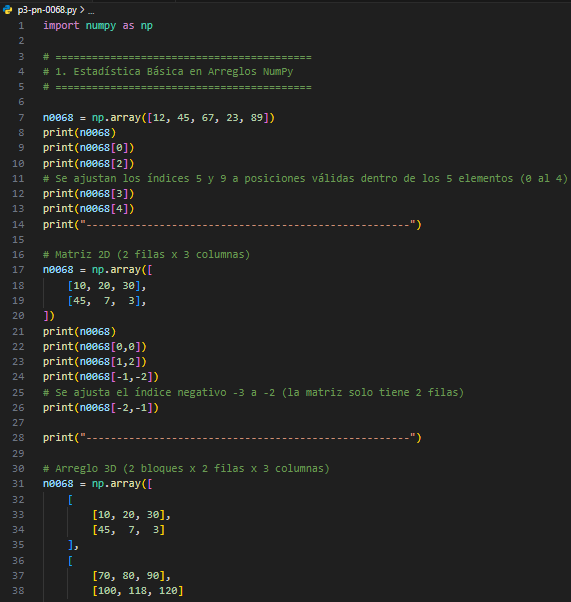
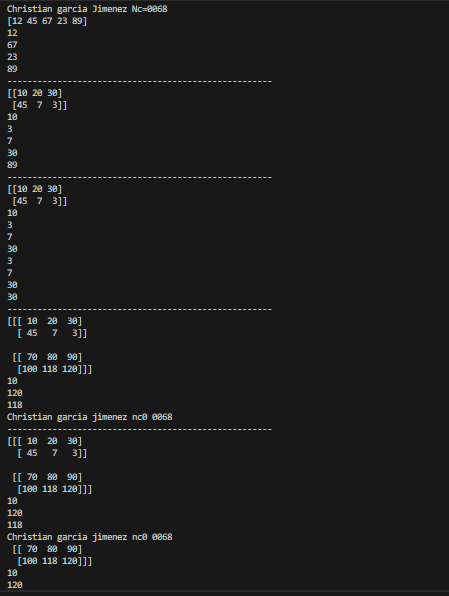
Add files via upload

diff --git a/p3-pn-0068.py b/p3-pn-0068.py
@@ -1,5 +1,7 @@
 import numpy as np
 
+print("Christian garcia Jimenez Nc=0068")
+
 # ==========================================
 # 1. Estadística Básica en Arreglos NumPy
 # ==========================================

diff --git a/leeme.md b/leeme.md
@@ -1,5 +1,5 @@
 ## codigo 
-![alt text](image.png)
+![alt text](image-2.png)
 
 ## resultado
-![alt text](image-1.png)
+![alt text](image.png)
